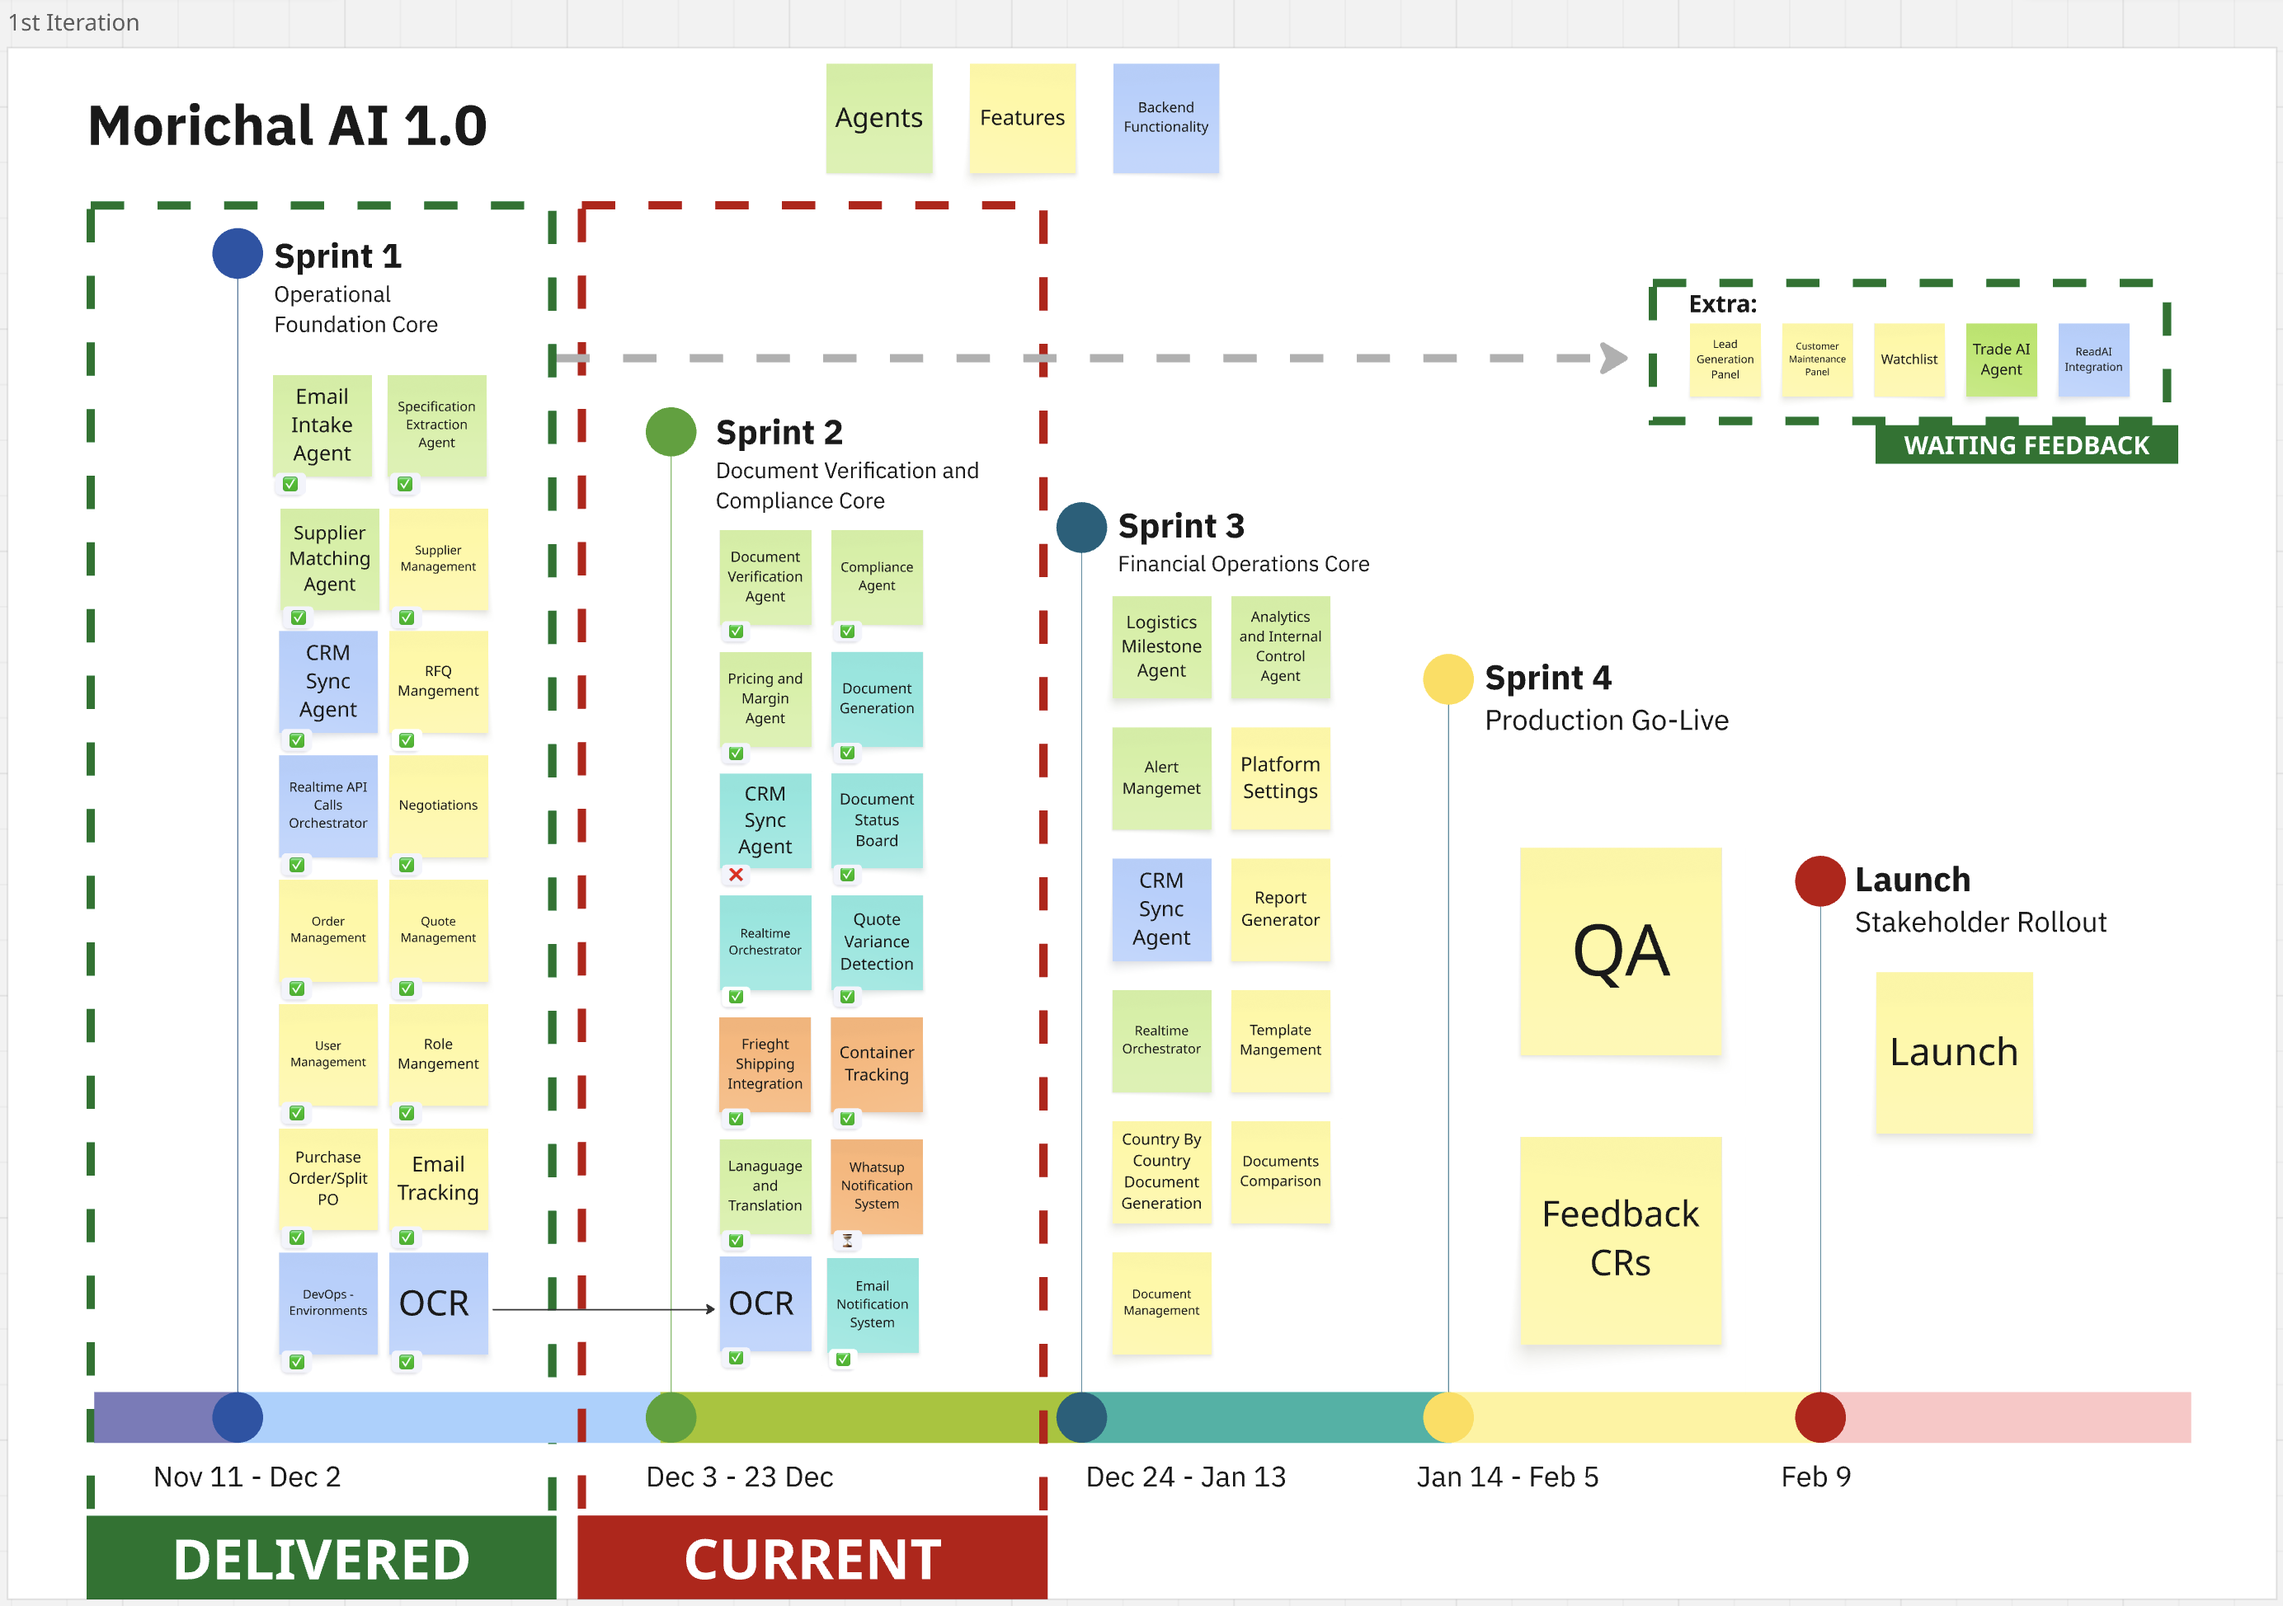
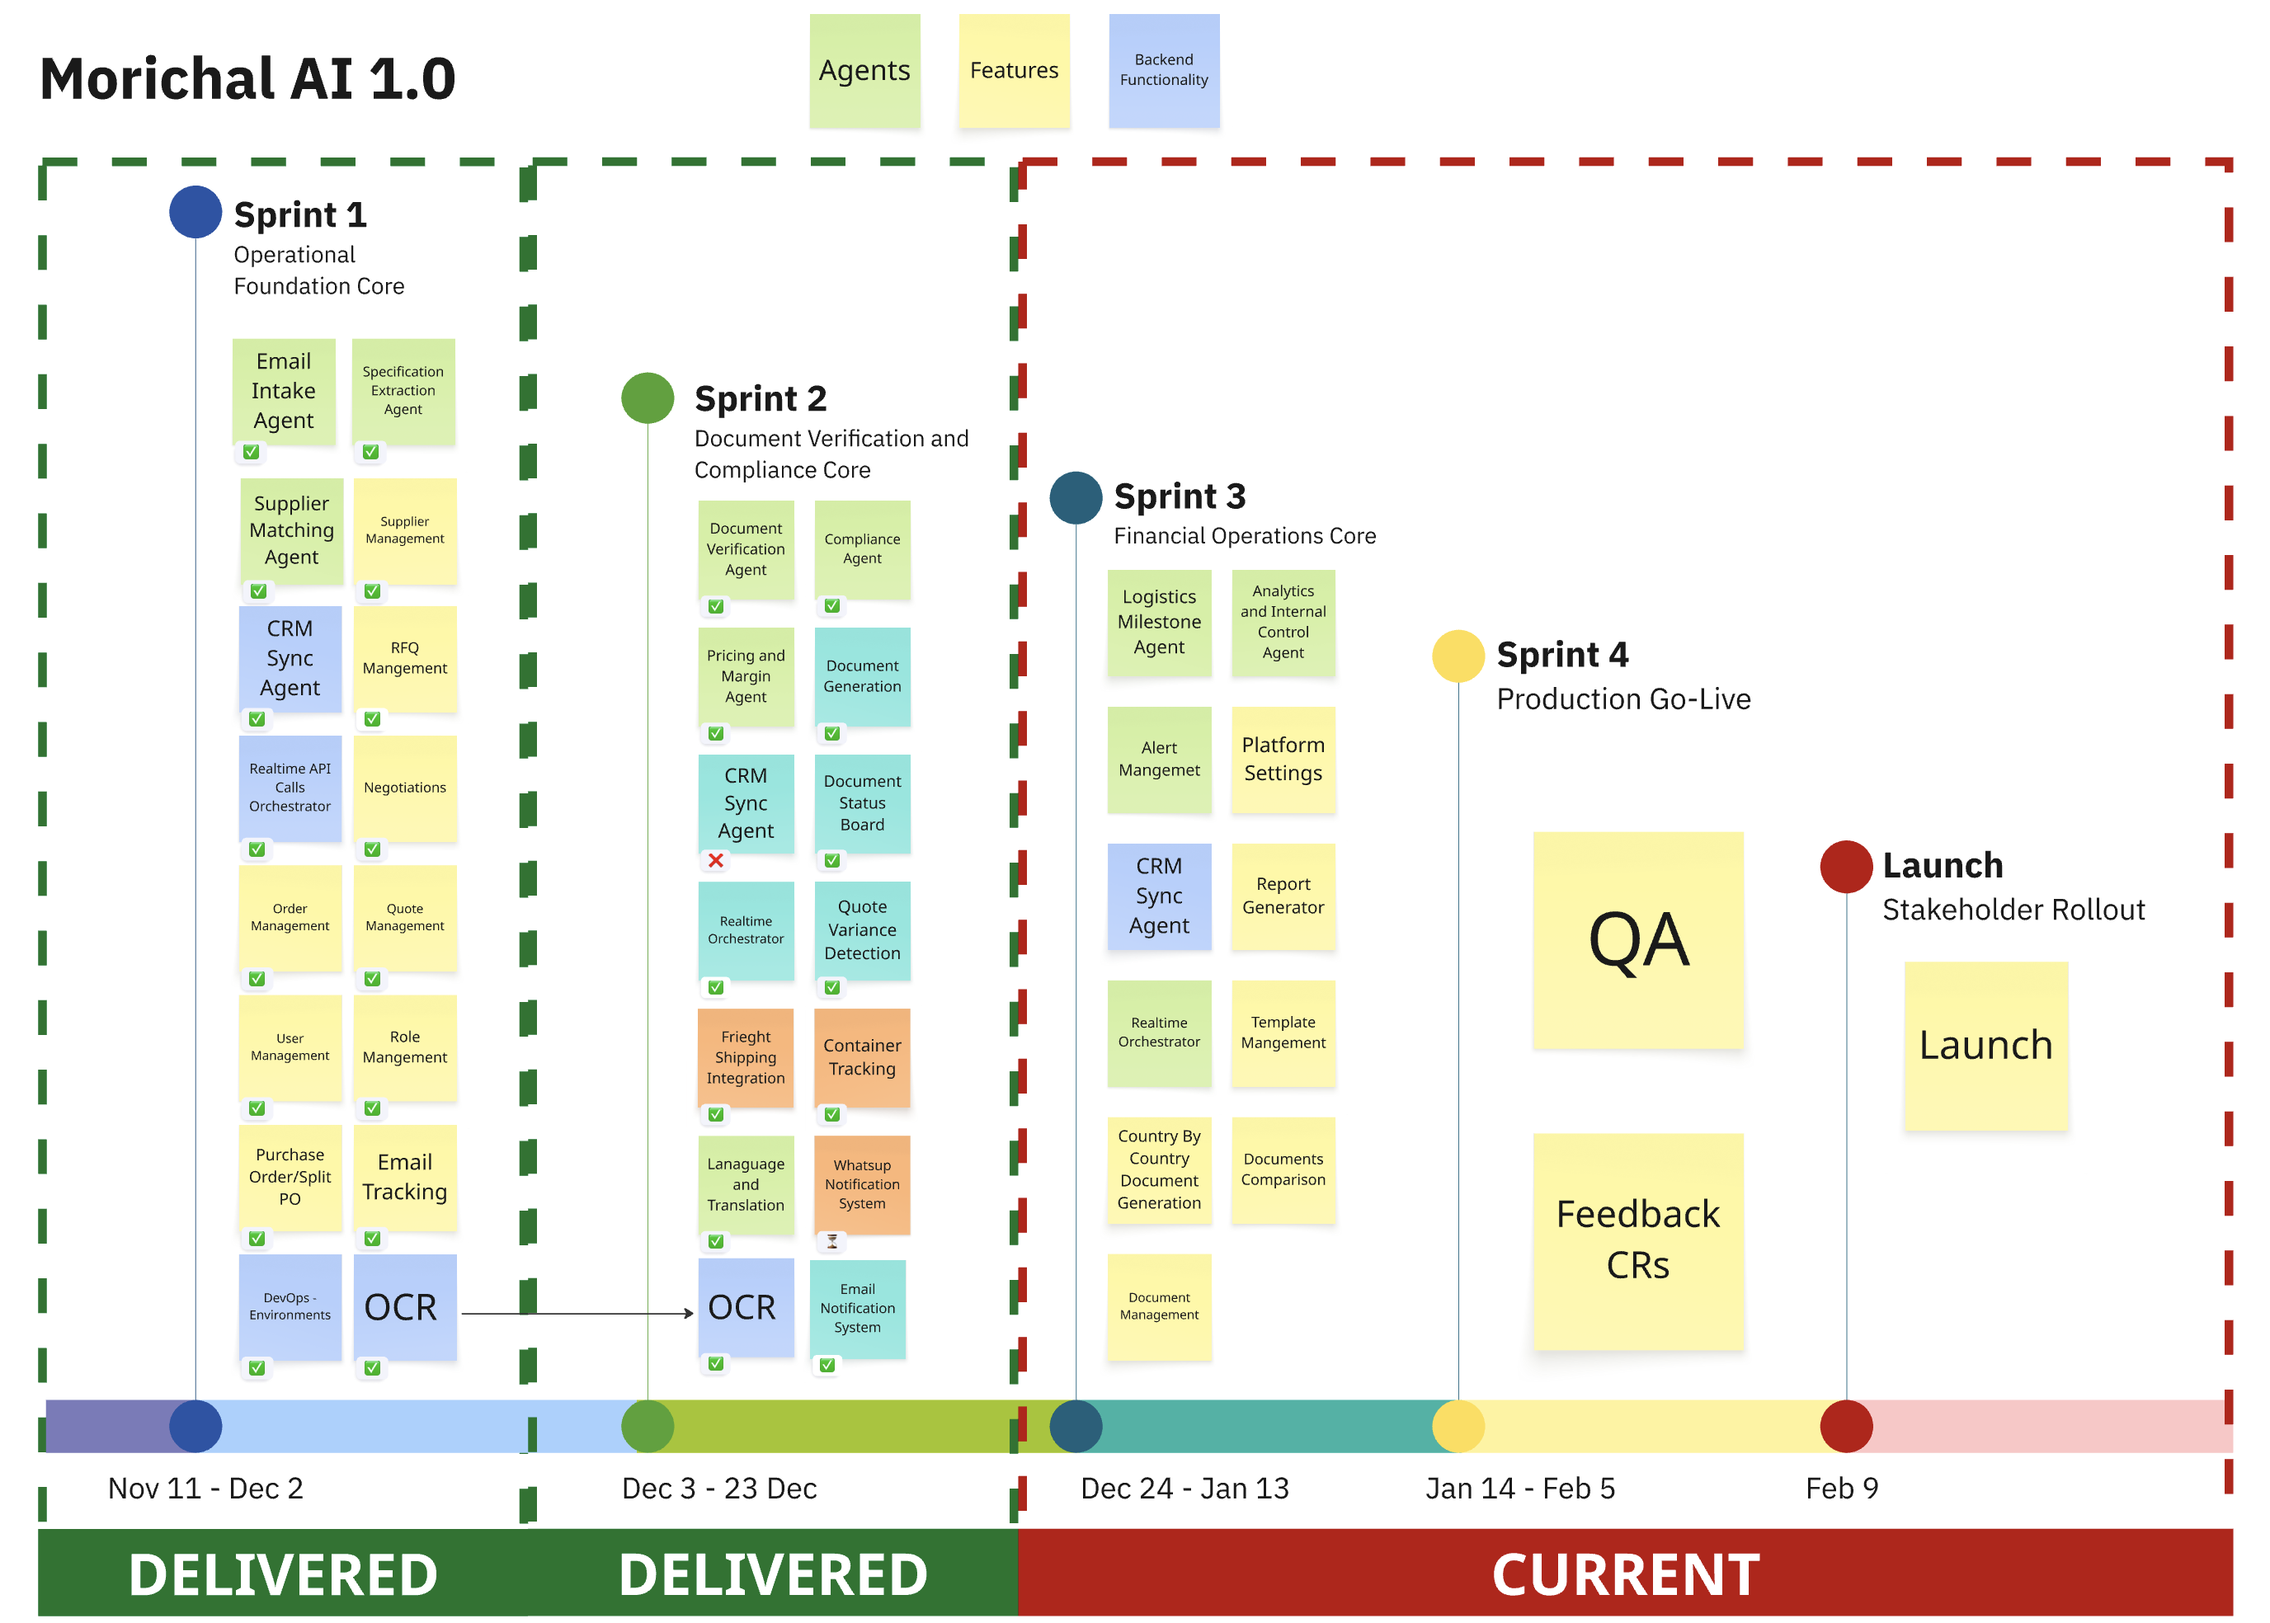
Update project roadmap and add CLAUDE.md
- Replace roadmap image with updated version
- Add CLAUDE.md with project workflow instructions

🤖 Generated with [Claude Code](https://claude.com/claude-code)

diff --git a/CLAUDE.md b/CLAUDE.md
@@ -1,0 +1,59 @@
+# Project Instructions
+
+## Mandatory Workflow
+
+**CRITICAL: For EVERY user request, you MUST follow this workflow in order:**
+
+### 1. Context Loading (Always First)
+Run `/context` at the start of every session to load project state from DOCS/, TASKS/, and BUG/ folders.
+
+### 2. Project Management
+Run `/pm` for ALL coding tasks, feature requests, bug fixes, refactoring, or development work. The PM skill orchestrates the entire development workflow automatically.
+
+### 3. Architecture Analysis
+Run `/architect` to analyze project structure, patterns, and conventions before implementing any feature. Documents findings in DOCS/ARCHITECTURE.md.
+
+### 4. UX/UI Design
+Run `/uxui` for ANY frontend work, user interfaces, or user-facing features. Applies usability heuristics, accessibility standards, and UX best practices. Creates DOCS/UX.md.
+
+### 5. Visual Design
+Run `/designer` for frontend work, UI components, styling, or visual design. Creates DOCS/DESIGN.md with design specifications.
+
+### 6. Documentation
+Run `/document` at the end of tasks to update project documentation in the DOCS folder.
+
+---
+
+## Skill Execution Order
+
+For any development request, execute skills in this order:
+
+1. `/context` - Load current project state
+2. `/pm` - Project management and task orchestration
+3. `/architect` - Architecture analysis (if structural changes)
+4. `/uxui` - UX/UI design (if user-facing)
+5. `/designer` - Visual design (if frontend work)
+6. `/document` - Document completed work
+
+## Rules
+
+- **Never skip the PM skill** for any coding task
+- **Always run context** at session start
+- **Always run uxui before designer** for frontend work
+- **Always document** significant changes
+- **Use /projects** for project lifecycle management (start, stop, register)
+- **Always run /projects before publishing** - Check available ports before deploying any project live on this server to avoid port conflicts
+
+## Folder Structure
+
+Maintain these documentation folders:
+- `DOCS/` - Project documentation
+- `TASKS/` - Task tracking
+- `BUG/` - Bug tracking and reports
+
+## Quality Standards
+
+- All frontend work must pass UX review before visual design
+- All architecture decisions must be documented
+- All completed tasks must be documented
+- Follow existing patterns identified by architect skill
